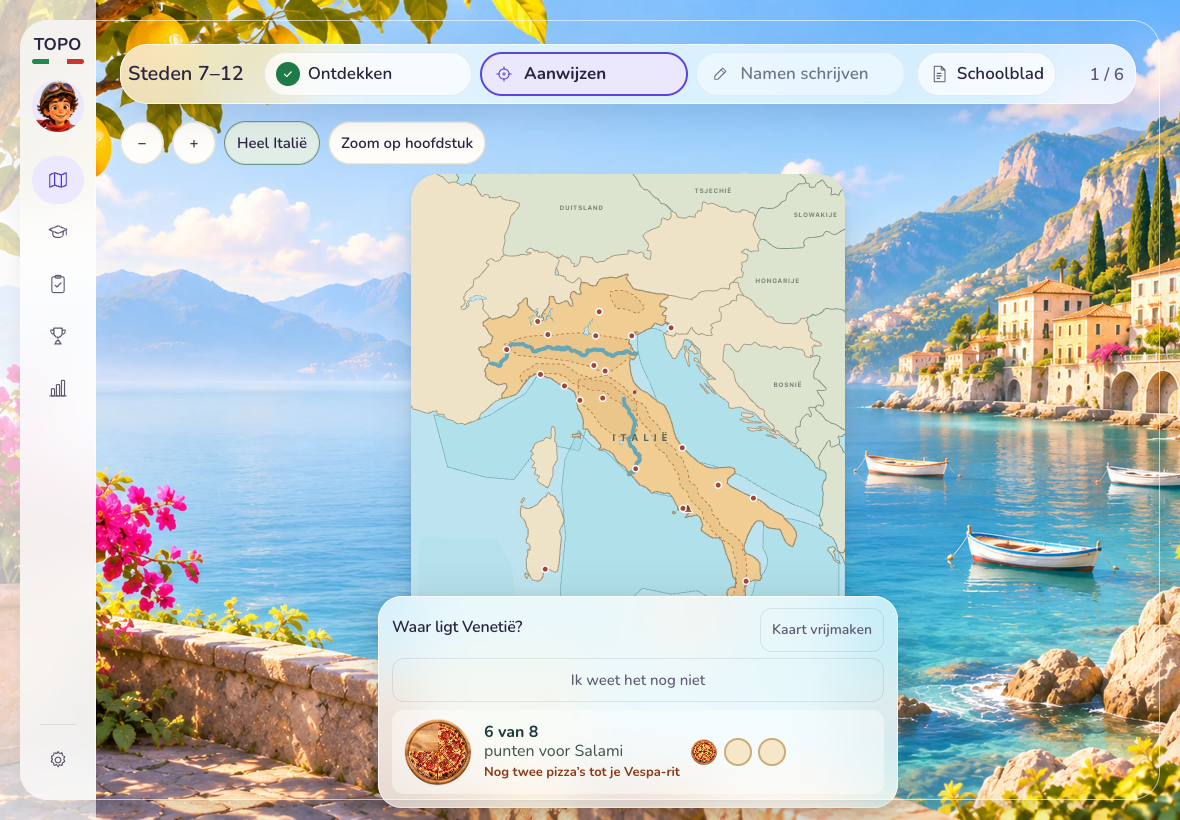
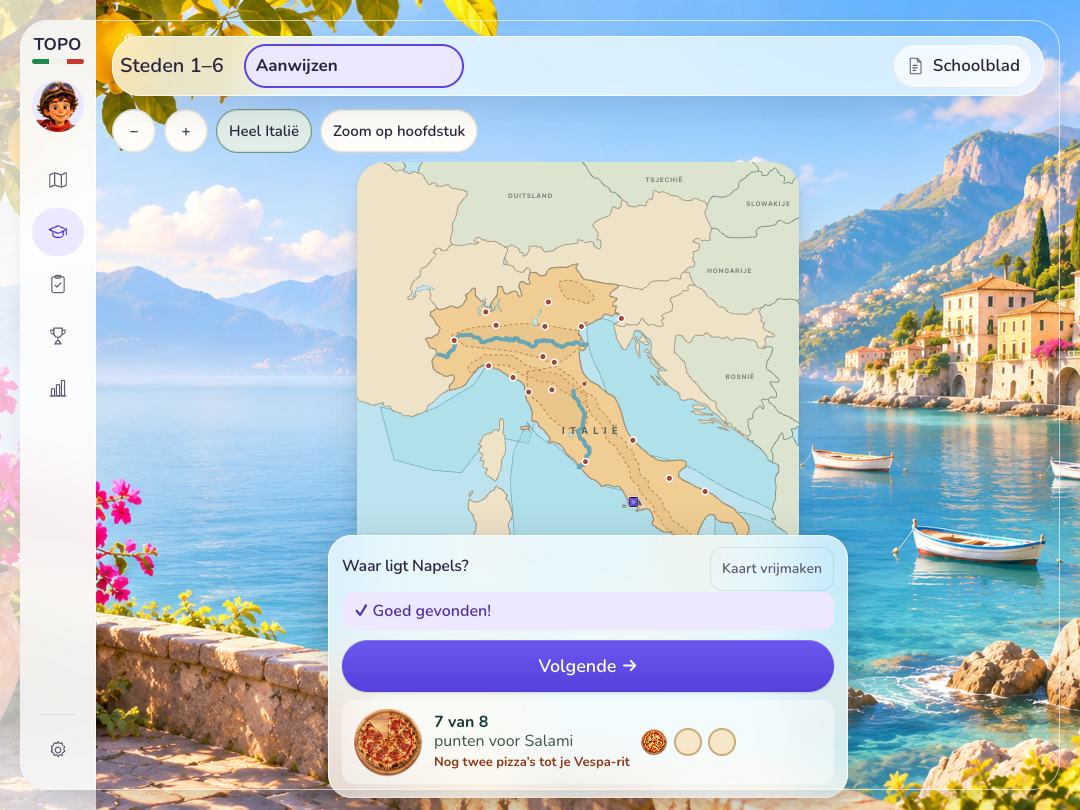
fix(v3): trek aanwijzen en lesfeedback door naar violet (ronde 3 punt 9)

diff --git a/scripts/v3/ronde3.css b/scripts/v3/ronde3.css
@@ -49,3 +49,12 @@ dialog.ninoProfile.v3Welkom{background:rgba(255,255,255,.72);backdrop-filter:blu
 .v3Welkom .profileWelcome{width:170px;height:190px;object-fit:contain;flex:none}
 .v3Welkom .profileBubble{background:rgba(255,255,255,.72);padding:14px;box-shadow:var(--v3-glass-shadow)}
 .v3Welkom .profileBubble h2,.v3Welkom .profileBubble p{font:600 17px/24px var(--v3-font)}
+
+body.v3Les{--focus:#7655eb;--accent:#6548d9;--good:#5a40c2;--bad:#9b234b}
+body.v3Les #map .activeTarget{filter:drop-shadow(0 0 8px #7655eb80)}
+body.v3Les #map .activeTarget:is(.country,.zone,.water,.city,.feature){fill:#9b83f5!important;stroke:#6548d9!important}
+body.v3Les #map .activeTarget.lineTarget{stroke:#7655eb!important}
+body.v3Les :is(#quiz,#focusAnswerSheet) #message.good{background:#eee8ff;color:#4d32a5}
+body.v3Les :is(#quiz,#focusAnswerSheet) #message.bad{background:#fae8f1;color:#902345}
+body.v3Les #answer{border-color:#c7b6ee;color:var(--v3-ink);background:#ffffffd9}
+body.v3Les #answer:focus-visible{outline:3px solid #9675f5;outline-offset:2px}

diff --git a/scripts/qa-v3-ronde3.py b/scripts/qa-v3-ronde3.py
@@ -19,6 +19,12 @@ async def check(p,n,touch):
   assert (await p.locator('.v3Switch button').first.bounding_box())['height']>=44
   await act(p,'.v3MapTools [data-relief=true]',touch)
   assert await p.locator('.v3MapStage .v3Map').get_attribute('data-relief')=='on'
+ if n==9:
+  await p.evaluate('TOPO_V3.shell.practice("point","city1")');await p.wait_for_timeout(700)
+  item=await p.evaluate('state.current.id')
+  await p.locator(f'#map [data-id="{item}"][tabindex="0"]').first.press('Enter');await p.wait_for_timeout(300)
+  assert await p.locator('#message').evaluate('n=>n.classList.contains("good") && getComputedStyle(n).color==="rgb(77, 50, 165)"')
+  return 'les'
  if n==8:
   await p.goto(q.HTML.as_uri()+'#welkom/bg03');await p.wait_for_timeout(800)
   assert await p.locator('.v3Welkom .profileWelcome').count()==1
